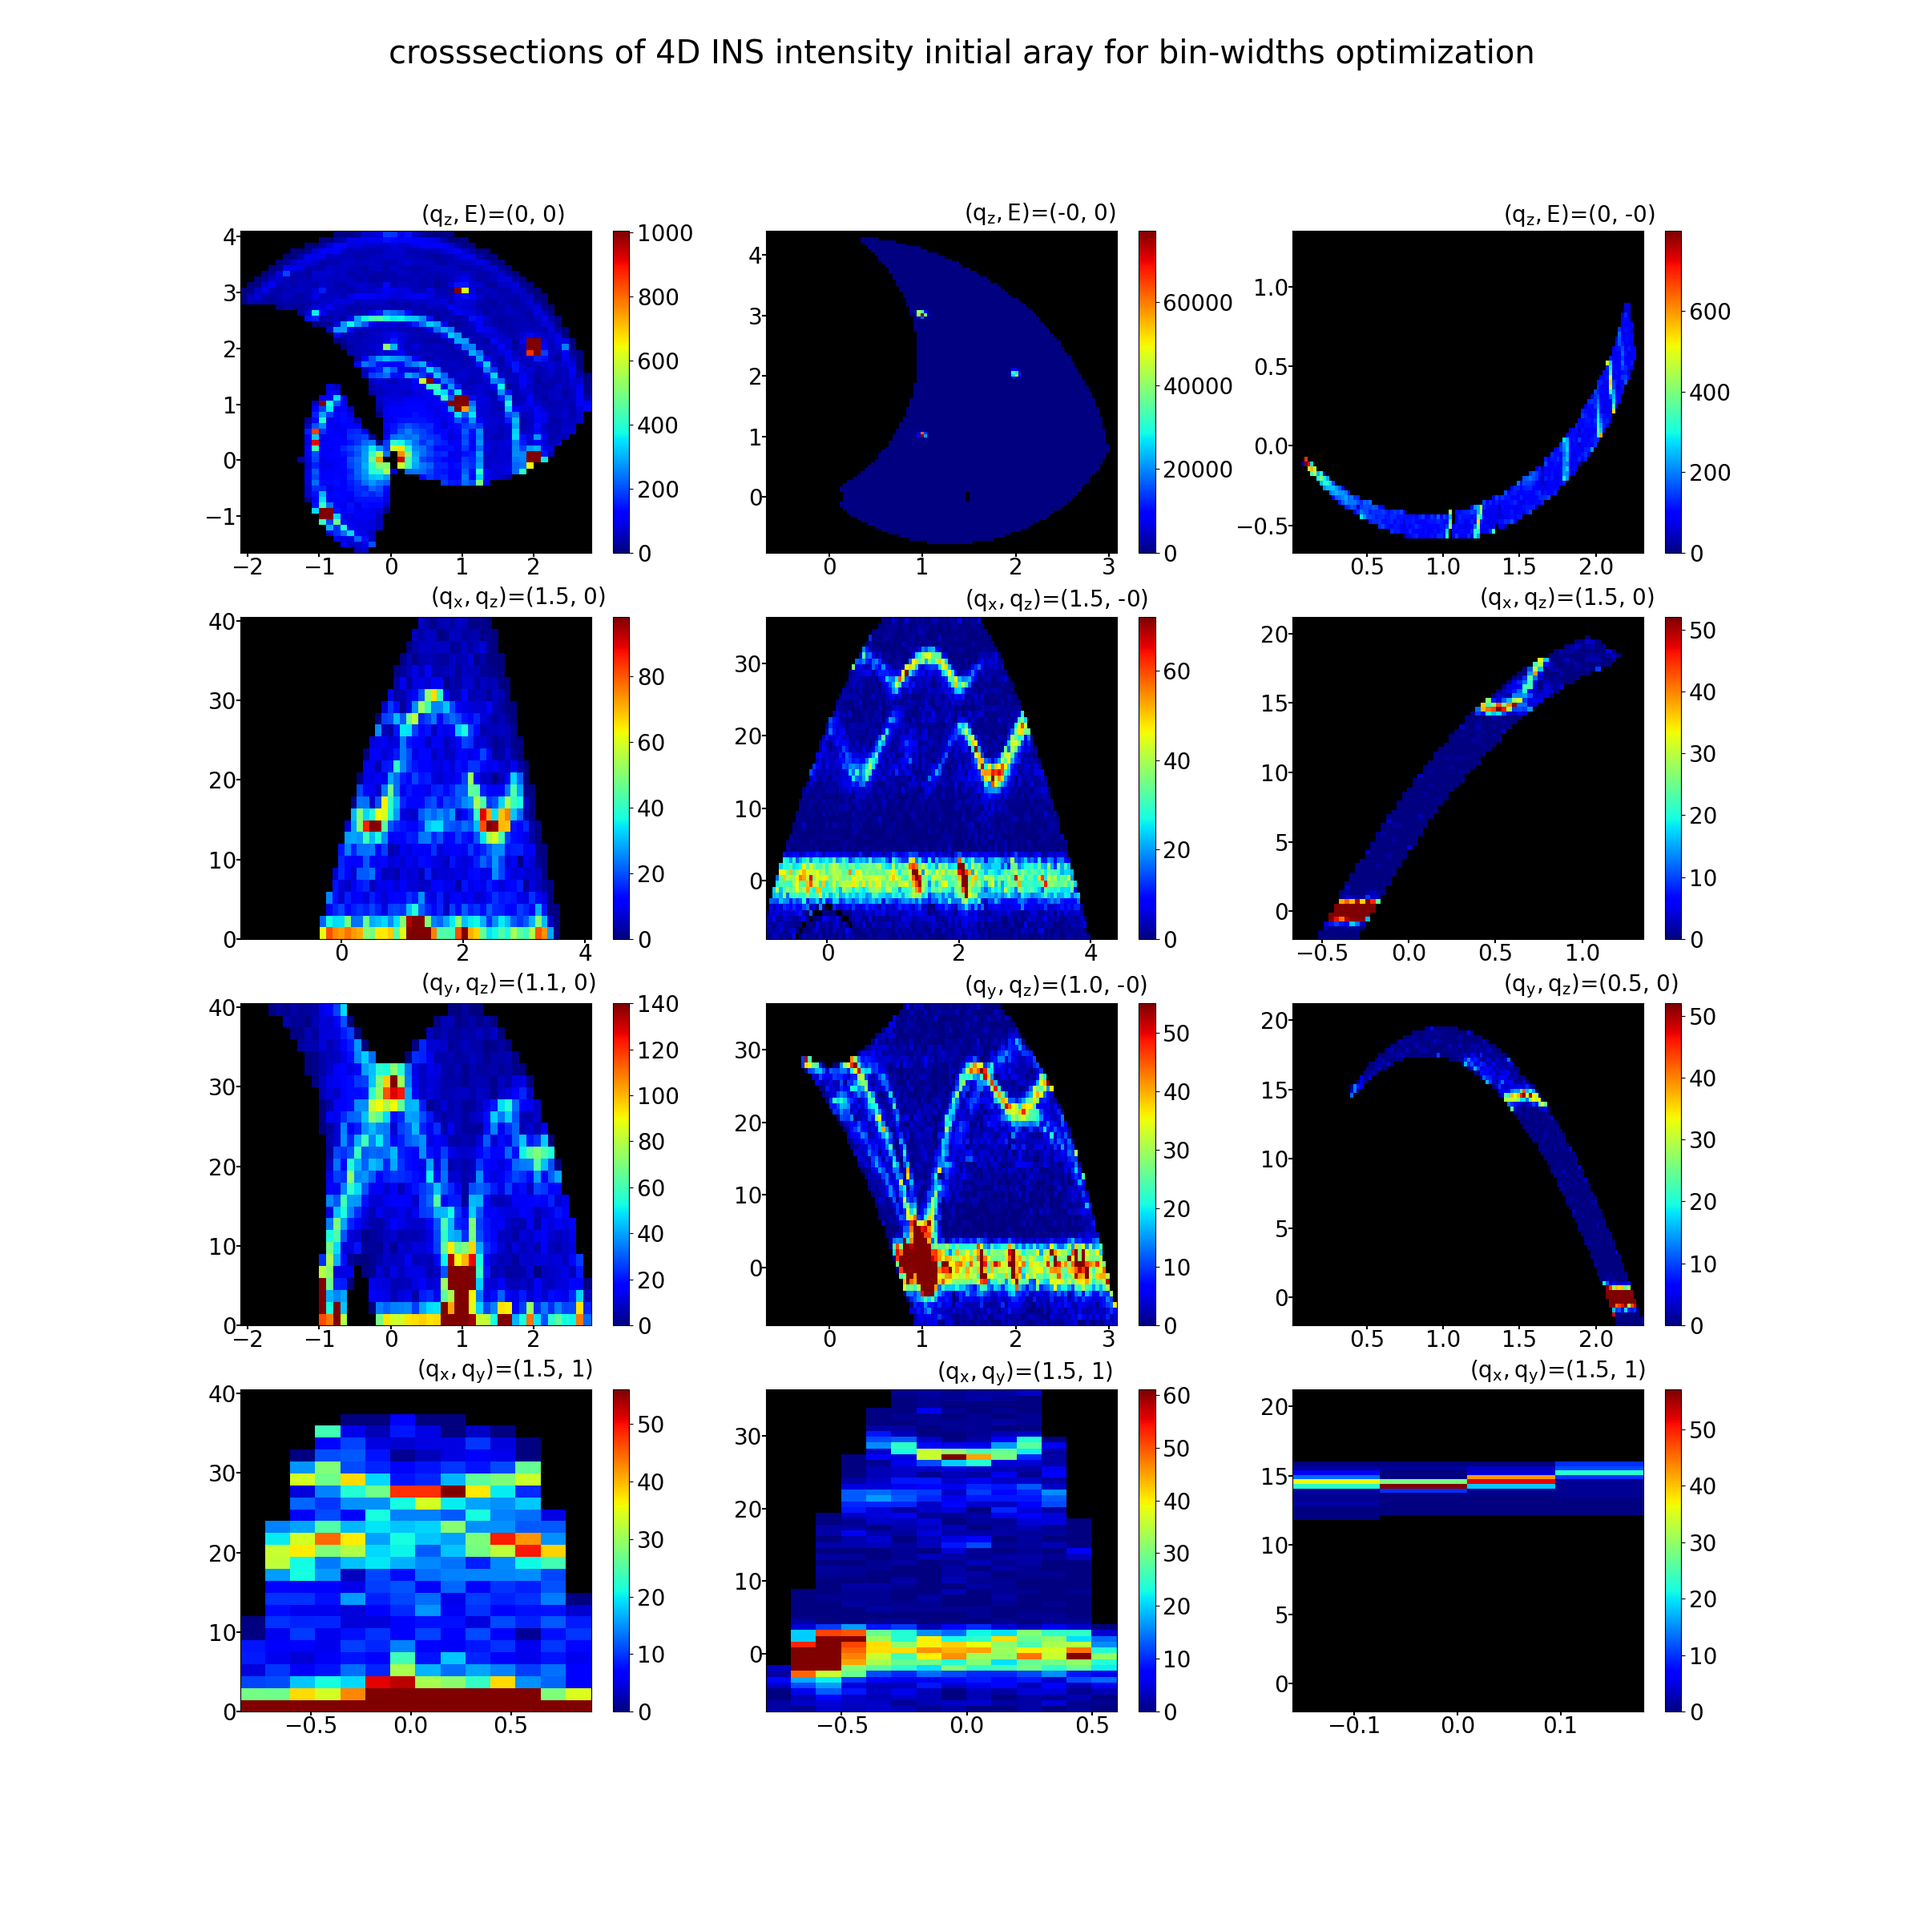
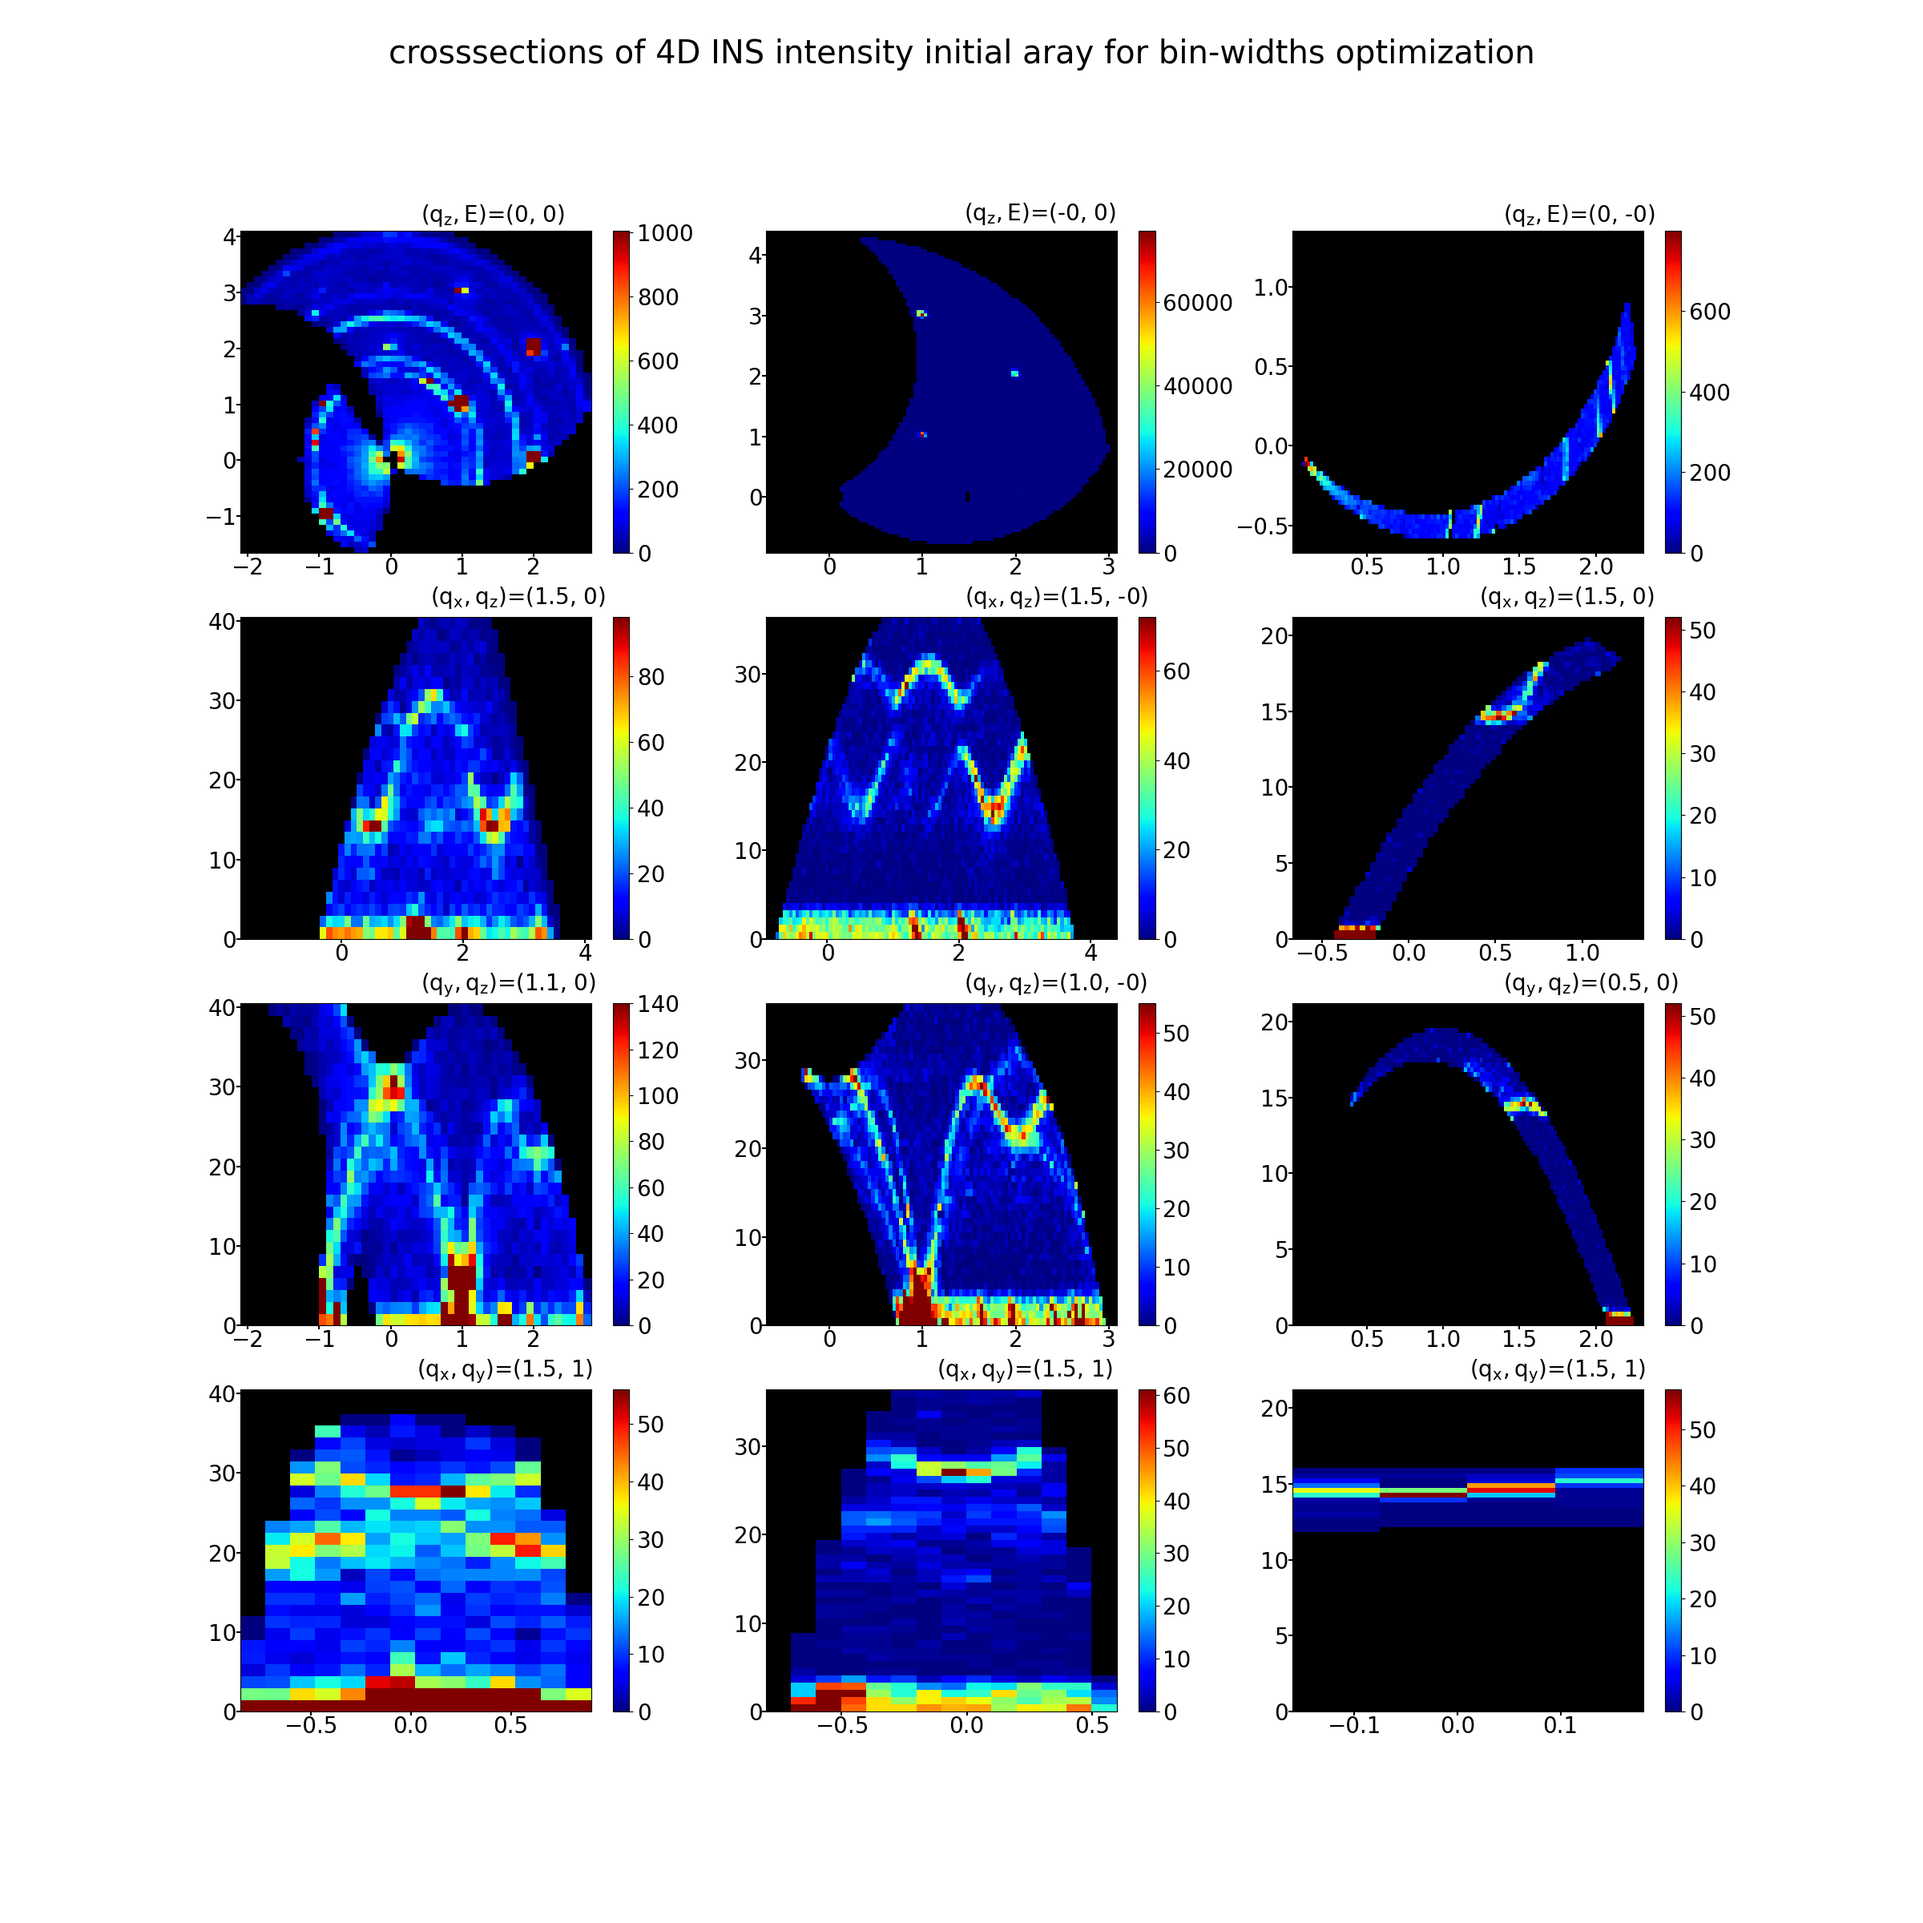
crosssection_of_4ddata_class.py set Energy lower lim as 0 meV

diff --git a/qens_fit_class.py b/qens_fit_class.py
@@ -23,10 +23,26 @@ class qens_fit:
     def preprocesss(self, doicorr=False):
         x_devf, ys_ssvk_devf = self.get_sdata(self.devf)
         x_tf, ys_ssvk_tf = self.get_sdata(self.tf)
-        self.bg = ys_ssvk_tf[0][x_tf > 0.10][0]
         print(np.sum(np.abs(x_tf - x_devf)))
         x_df, self.y_df = self.limit(x_devf, ys_ssvk_devf[0], mergin=0.00)
         self.x_tf, self.y_tf = self.limit(x_tf, ys_ssvk_tf[0], mergin=0.00)
+        if doicorr:
+           x = self.x_tf + 2.085
+           self.y_tf = self.y_tf / (self.k[0] + self.k[1]*x
+                                    + self.k[2]*x**2
+                                    + self.k[3]*x**3)
+           self.y_df = self.y_df / (self.k[0] + self.k[1]*x
+                                    + self.k[2]*x**2
+                                    + self.k[3]*x**3)
+
+    def preprocessh(self, doicorr=False):
+        x_devf, ys_ssvk_devf = self.get_hdata(self.devf)
+        x_tf, ys_ssvk_tf = self.get_hdata(self.tf)
+        self.bg = 0.0032044070019324375*np.max(ys_ssvk_tf)
+        print("bg:", self.bg)
+        print(np.sum(np.abs(x_tf - x_devf)))
+        x_df, self.y_df = self.limit(x_devf, ys_ssvk_devf, mergin=0.00)
+        self.x_tf, self.y_tf = self.limit(x_tf, ys_ssvk_tf, mergin=0.00)
         if doicorr:
            x = self.x_tf + 2.085
            self.y_tf = self.y_tf / (self.k[0] + self.k[1]*x
@@ -45,6 +61,11 @@ class qens_fit:
         with open(infile, 'rb') as f:
             data = pickle.load(f)
         return data['tin_real'], data['ys_ssvk']
+
+    def get_hdata(self, infile):
+        with open(infile, 'rb') as f:
+            data = pickle.load(f)
+        return data['energy'], data['spectra']
 
     def limit(self, x, y, mergin=0.0):
         mask = np.where((x > self.elim[0] - mergin) &
@@ -99,13 +120,13 @@ class qens_fit:
         y = k0 + k1*x + k2*x**2+ k3*x**3
         return t - y
 
-    def optimize(self):
+    def optimize(self, variables=[1.46103037e-04, 1.23754329e-02, 5.20429443e-01, 9.30889687e-03]):
         # initial guess on the parameters are hard-coded here.
-        variables = [0.00001, 0.0015, 0.01]
-        variables = [1.58837344e-04, 1.00454636e-02, 4.57573203e-01, 0.009]
-        variables = [1.38746043e-04, 8.27288080e-03, 4.47976536e-01, 1.75691683e-02]
-        variables = [1.46103037e-04, 1.23754329e-02, 5.20429443e-01, 9.30889687e-03]
-        variables = [1.38876225e-04, 8.09183272e-03, 4.42217308e-01]
+        #variables = [0.00001, 0.0015, 0.01]
+        #variables = [1.58837344e-04, 1.00454636e-02, 4.57573203e-01, 0.009]
+        #variables = [1.38746043e-04, 8.27288080e-03, 4.47976536e-01, 1.75691683e-02]
+        #variables = [1.46103037e-04, 1.23754329e-02, 5.20429443e-01, 9.30889687e-03]
+        #variables = [1.38876225e-04, 8.09183272e-03, 4.42217308e-01]
         out = so.leastsq(self.res, variables,
                          args=(self.x_tf, self.y_df, self.y_tf), full_output=1,
                          epsfcn=0.0001)
@@ -122,6 +143,8 @@ class qens_fit:
             _base = self.y_tf[-1]
         _y = self.convlore(_alpha*self.y_df, _gamma, self.x_tf)
         _y += _delta*self.y_df + _base
+        print("optbg/peak:", _base/np.max(self.y_tf))
+        self.bgpeakr = _base/np.max(self.y_tf)
         plt.plot(self.x_tf, _y, label='ML')
         plt.plot(self.x_tf, self.y_tf, label='target')
         plt.plot(self.x_tf, np.zeros_like(self.x_tf) + _base, label='constant')

diff --git a/crosssection_of_4ddata_class.py b/crosssection_of_4ddata_class.py
@@ -161,6 +161,13 @@ class CROSS:
                       vmax=int(np.max(data[xlim[0]:xlim[1], ylim[0]:ylim[1]])
                                / dev),
                       cmap=self.custom_cmap)
+        if ly == 'E(meV)':
+            ax.set_ylim(0, yr[1])
+            delta = int(round(-yr[0]/((self.wholeranges[3, 1] -
+                              self.wholeranges[3, 0])/data.shape[1] /
+                              self.binwidths[3])))
+        else:
+            delta = 0
         self.fig.colorbar(c, ax=ax)
         #else:
         #    zm = np.ma.masked_where(data >= 0, data).T
@@ -188,11 +195,11 @@ class CROSS:
             yival = (ylim[0]+yoff)/float(data.shape[1])*(yr[1] - yr[0]) + yr[0]
             yeval = (ylim[1]-yoff)/float(data.shape[1])*(yr[1] - yr[0]) + yr[0]
             ax.axvline(x=xival, color='white', lw=0.5,
-                       ymin=float(ylim[0])/float(data.shape[1]),
-                       ymax=float(ylim[1])/float(data.shape[1]))
+                       ymin=float(ylim[0]-delta)/float(data.shape[1]-delta),
+                       ymax=float(ylim[1]-delta)/float(data.shape[1]-delta))
             ax.axvline(x=xeval, color='white', lw=0.5,
-                       ymin=float(ylim[0])/float(data.shape[1]),
-                       ymax=float(ylim[1])/float(data.shape[1]))
+                       ymin=float(ylim[0]-delta)/float(data.shape[1]-delta),
+                       ymax=float(ylim[1]-delta)/float(data.shape[1]-delta))
             ax.axhline(y=yival, color='white', lw=0.5,
                        xmin=float(xlim[0])/float(data.shape[0])+frac,
                        xmax=float(xlim[1])/float(data.shape[0])-frac)
@@ -205,11 +212,15 @@ class CROSS:
             cyival = clims[1, 0]/float(data.shape[1])*(yr[1] - yr[0]) + yr[0]
             cyeval = clims[1, 1]/float(data.shape[1])*(yr[1] - yr[0]) + yr[0]
             ax.axvline(x=cxival, color='pink', lw=0.5,
-                       ymin=float(clims[1, 0])/float(data.shape[1]),
-                       ymax=float(clims[1, 1])/float(data.shape[1]))
+                       ymin=float(clims[1, 0]-delta)/float(data.shape[1]
+                                                           - delta),
+                       ymax=float(clims[1, 1]-delta)/float(data.shape[1]
+                                                           - delta))
             ax.axvline(x=cxeval, color='pink', lw=0.5,
-                       ymin=float(clims[1, 0])/float(data.shape[1]),
-                       ymax=float(clims[1, 1])/float(data.shape[1]))
+                       ymin=float(clims[1, 0]-delta)/float(data.shape[1]
+                                                           - delta),
+                       ymax=float(clims[1, 1]-delta)/float(data.shape[1]
+                                                           - delta))
             ax.axhline(y=cyival, color='pink', lw=0.5,
                        xmin=float(clims[0, 0])/float(data.shape[0]),
                        xmax=float(clims[0, 1])/float(data.shape[0]))

diff --git a/hkl_class.py b/hkl_class.py
@@ -1,0 +1,85 @@
+# Kazuyoshi TATSUMI 2021/09/04
+import numpy as np
+import re
+
+
+class hkl:
+    def __init__(self, hkl_file, prot_file, out_file, latconst, atomd, atomw,
+                 imag, nmag):
+        self.hkl_file = hkl_file
+        self.prot_file = prot_file
+        self.out_file = out_file
+        self.latconst = latconst
+        self.atomd = atomd
+        self.atomw = atomw
+        self.imag = imag
+        self.nmag = nmag
+
+    def read_hklfile(self):
+        f = open(self.hkl_file)
+        _h = []
+        _k = []
+        _l = []
+        _m = []
+        for line in f:
+            if not re.compile(r'[A-z]').search(line):
+                values = line.split()
+                _h.append(values[0])
+                _k.append(values[1])
+                _l.append(values[2])
+                _m.append(values[9])
+        f.close()
+        self.hklm = np.zeros((5, len(_m)))
+        self.hklm[0] = _h
+        self.hklm[1] = _k
+        self.hklm[2] = _l
+        self.hklm[3] = _m
+        self.hklm = np.unique(self.hklm, axis=1)
+
+    def calc_strfac(self):
+        h = self.hklm[0]
+        k = self.hklm[1]
+        l = self.hklm[2]
+        multi = self.hklm[3]
+        a = self.latconst
+        w = self.atomw
+        d = self.atomd
+        self.hklm[4] = 2.0*self.imag*np.cos(np.pi*d*l/a) \
+            * np.exp(-w**2*np.pi**2*(h**2+k**2+l**2)/(a**2))
+
+        self.hklm = self.hklm[:,np.lexsort((l, k, h, h**2+k**2+l**2))]
+
+    def output(self):
+        dummy = 0.00
+        dummy2 = 0.003
+        with open(self.out_file, mode='w') as f:
+            g = open(self.prot_file, mode='r')
+            head = g.readlines()[0:4]
+            for item in head:
+                f.write(item)
+            f.write("%15.7f%15.7f%15.7f \n" % (2.0*self.imag, dummy, dummy2))
+            f.write("%5d\n" % self.hklm.shape[1])
+            for hklidx in range(0, self.hklm.shape[1]):
+                f.write("%5d%5d%5d%15.7f%15.7f%15.7f \n" %
+                        (self.hklm[0][hklidx], self.hklm[1][hklidx],
+                            self.hklm[2][hklidx], self.hklm[4][hklidx] +
+                            np.random.randn()*np.abs(self.hklm[4][hklidx]
+                                                     * self.nmag),
+                            dummy, np.abs(self.hklm[4][hklidx]*self.nmag))
+                        )
+
+
+def samplerun():
+    datadir = "/home/kazu/desktop/210904/"
+    hkl_file = datadir + "H2.txt"
+    prot_file = datadir + "prot.mem"
+    out_file = datadir + "out2.mem"
+    imag = 100.0
+    nmag = 0.01
+    proj = hkl(hkl_file, prot_file, out_file, 10.0, 1.1, 0.2, imag, nmag)
+    proj.read_hklfile()
+    proj.calc_strfac()
+    proj.output()
+
+
+samplerun()
